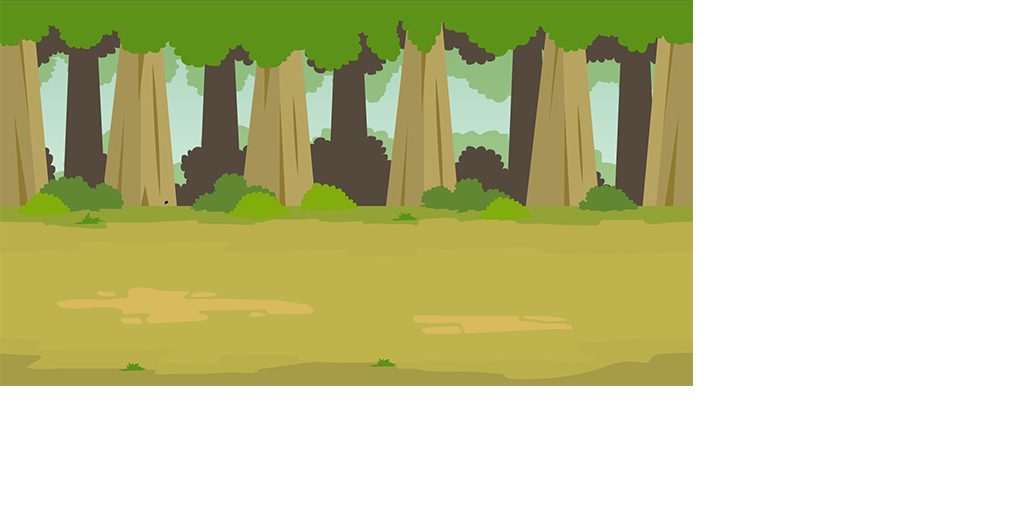
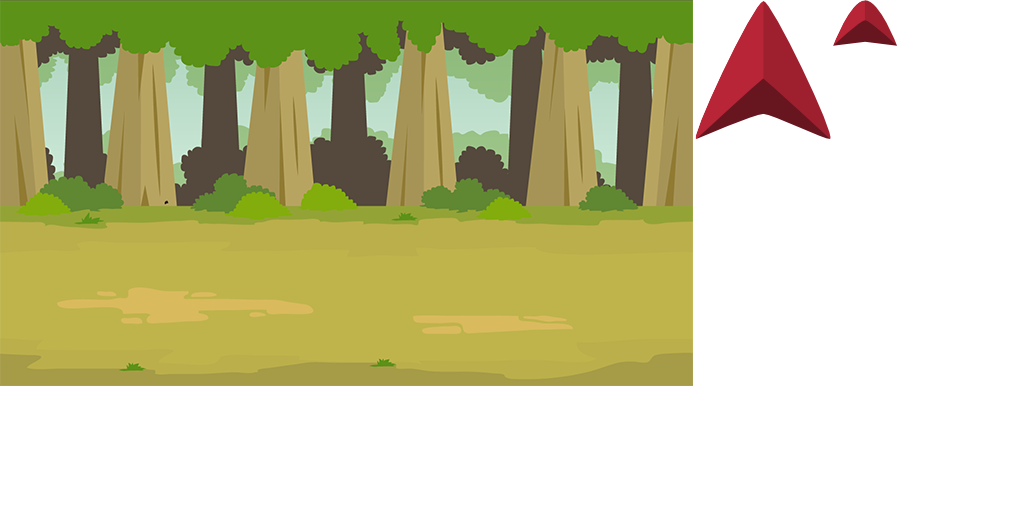
测试ui提交

Changed region(s): [[0.6562, 0.0, 0.8125, 0.2812], [0.8125, 0.0, 0.875, 0.0938]]

diff --git a/Unity/Assets/Scripts/Codes/ModelView/Client/Demo/FUIAutoGen/Main/FUI_Line.cs b/Unity/Assets/Scripts/Codes/ModelView/Client/Demo/FUIAutoGen/Main/FUI_Line.cs
@@ -1,0 +1,37 @@
+/** This is an automatically generated class by FUICodeSpawner. Please do not modify it. **/
+
+using FairyGUI;
+using FairyGUI.Utils;
+
+namespace ET.Client.Main
+{
+	public partial class FUI_Line: GComponent
+	{
+		public GImage start;
+		public GImage p1;
+		public GImage p2;
+		public GImage p3;
+		public GImage p4;
+		public GImage p5;
+		public GImage end;
+		public const string URL = "ui://9dh52fkap7d28";
+
+		public static FUI_Line CreateInstance()
+		{
+			return (FUI_Line)UIPackage.CreateObject("Main", "Line");
+		}
+
+		public override void ConstructFromXML(XML xml)
+		{
+			base.ConstructFromXML(xml);
+
+			start = (GImage)GetChildAt(0);
+			p1 = (GImage)GetChildAt(1);
+			p2 = (GImage)GetChildAt(2);
+			p3 = (GImage)GetChildAt(3);
+			p4 = (GImage)GetChildAt(4);
+			p5 = (GImage)GetChildAt(5);
+			end = (GImage)GetChildAt(6);
+		}
+	}
+}

diff --git a/Unity/Assets/Scripts/Codes/HotfixView/Client/Demo/FUI/LineHelp.cs b/Unity/Assets/Scripts/Codes/HotfixView/Client/Demo/FUI/LineHelp.cs
@@ -1,0 +1,29 @@
+using ET.Client.Main;
+using UnityEngine;
+
+namespace ET.Client
+{
+    public static class LineHelp
+    {
+        private static FUI_Line line;
+
+
+        public static void ShowLine(Vector2 starPos,Vector2 endPos)
+        {
+            if (line == null)
+            {
+                line = FUI_Line.CreateInstance();
+                GlobalComponent.Instance.PopUpGRoot.AddChild(line);
+            }
+
+            line.xy = starPos;
+        }
+    
+
+        private static void SetStartPoint(Vector2 pos)
+        {
+
+        }
+    }
+}
+

diff --git a/Unity/Assets/Scripts/Codes/ModelView/Client/Demo/FUIAutoGen/Main/FUI_MainPanel.cs b/Unity/Assets/Scripts/Codes/ModelView/Client/Demo/FUIAutoGen/Main/FUI_MainPanel.cs
@@ -8,6 +8,8 @@ namespace ET.Client.Main
 	public partial class FUI_MainPanel: GComponent
 	{
 		public ET.Client.Main.FUI_MainMoveBg MoveBg;
+		public ET.Client.Common.FUI_NormalBtn btnTest;
+		public GGraph Player;
 		public const string URL = "ui://9dh52fkao4sh5";
 
 		public static FUI_MainPanel CreateInstance()
@@ -20,6 +22,8 @@ namespace ET.Client.Main
 			base.ConstructFromXML(xml);
 
 			MoveBg = (ET.Client.Main.FUI_MainMoveBg)GetChildAt(0);
+			btnTest = (ET.Client.Common.FUI_NormalBtn)GetChildAt(2);
+			Player = (GGraph)GetChildAt(3);
 		}
 	}
 }

diff --git a/Unity/Assets/Scripts/Codes/HotfixView/Client/Demo/FUI/Login/ServerPanelSystem.cs b/Unity/Assets/Scripts/Codes/HotfixView/Client/Demo/FUI/Login/ServerPanelSystem.cs
@@ -10,6 +10,10 @@ namespace ET.Client
 		public static void RegisterUIEvent(this ServerPanel self)
 		{
 			self.FUIServerPanel.btnChange.AddListner(self.OnclickBtnChange);
+			self.FUIServerPanel.btnBegin.AddListner(() =>
+			{
+				self.DomainScene().GetComponent<FUIComponent>().HideAndShowPanelStackAsync(PanelId.ServerPanel,PanelId.MainPanel).Coroutine();
+			});
 		}
 
 		private static void OnclickBtnChange(this ServerPanel self)

diff --git a/Unity/Assets/Scripts/Codes/HotfixView/Client/Demo/FUI/Main/MainPanelSystem.cs b/Unity/Assets/Scripts/Codes/HotfixView/Client/Demo/FUI/Main/MainPanelSystem.cs
@@ -1,3 +1,5 @@
+using UnityEngine;
+
 namespace ET.Client
 {
 	[FriendOf(typeof(MainPanel))]
@@ -9,6 +11,10 @@ namespace ET.Client
 
 		public static void RegisterUIEvent(this MainPanel self)
 		{
+			self.FUIMainPanel.btnTest.AddListner(() =>
+			{
+				LineHelp.ShowLine(self.FUIMainPanel.btnTest.xy,Vector2.zero);
+			});
 		}
 
 		public static void OnShow(this MainPanel self, Entity contextData = null)

diff --git a/Unity/Assets/Scripts/Codes/ModelView/Client/Demo/FUIAutoGen/Main/MainBinder.cs b/Unity/Assets/Scripts/Codes/ModelView/Client/Demo/FUIAutoGen/Main/MainBinder.cs
@@ -10,6 +10,7 @@ namespace ET.Client
 		{
 			UIObjectFactory.SetPackageItemExtension(ET.Client.Main.FUI_MainPanel.URL, typeof(ET.Client.Main.FUI_MainPanel));
 			UIObjectFactory.SetPackageItemExtension(ET.Client.Main.FUI_MainMoveBg.URL, typeof(ET.Client.Main.FUI_MainMoveBg));
+			UIObjectFactory.SetPackageItemExtension(ET.Client.Main.FUI_Line.URL, typeof(ET.Client.Main.FUI_Line));
 		}
 	}
 }
